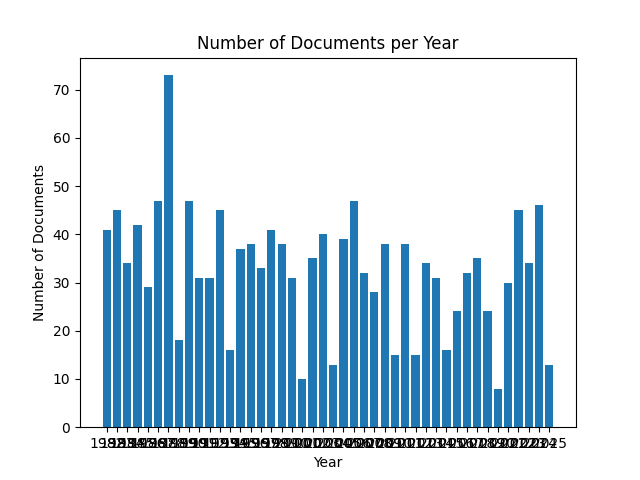
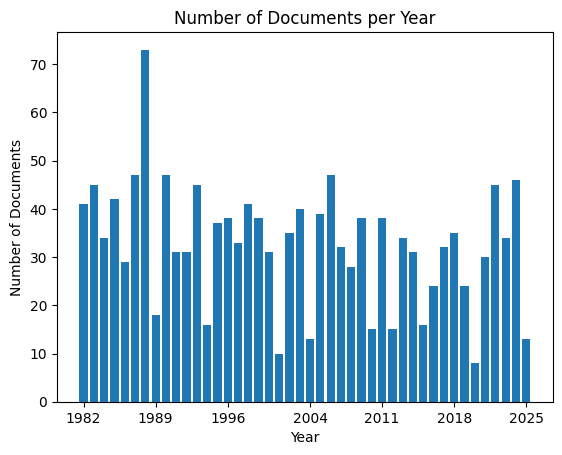
Changed chart X-axis ticks

Changed region(s): [[0.0, 0.0923, 0.968, 0.9846], [0.3025, 0.0308, 0.7865, 0.1231], [0.0605, 0.1231, 0.0907, 0.1538]]

diff --git a/src/lpd/reports/ChartYear.py b/src/lpd/reports/ChartYear.py
@@ -2,6 +2,8 @@ import os
 from functools import cached_property
 
 import matplotlib.pyplot as plt
+import numpy as np
+from matplotlib.ticker import MultipleLocator
 from utils import Log
 
 log = Log("ChartYear")
@@ -24,15 +26,26 @@ class ChartYear:
         }
 
     def draw(self):
-        years = list(self.year_to_num_docs.keys())
-        num_docs = list(self.year_to_num_docs.values())
+        items = sorted(
+            ((int(y), v) for y, v in self.year_to_num_docs.items()),
+            key=lambda t: t[0],
+        )
+        years = np.array([y for y, _ in items], dtype=int)
+        num_docs = np.array([v for _, v in items])
 
         plt.bar(years, num_docs)
         plt.xlabel("Year")
         plt.ylabel("Number of Documents")
         plt.title("Number of Documents per Year")
+
+        desired = 7
+        num_ticks = min(desired, len(years))
+        idx = np.linspace(0, len(years) - 1, num_ticks).round().astype(int)
+        tick_positions = years[idx]
+        plt.xticks(tick_positions, rotation=0)
+
         os.makedirs(self.DIR_IMAGES, exist_ok=True)
-        plt.savefig(self.DIR_IMAGE_PATH)
+        plt.savefig(self.DIR_IMAGE_PATH, bbox_inches="tight")
         plt.close()
         log.debug(f"Wrote {self.DIR_IMAGE_PATH}")
 
